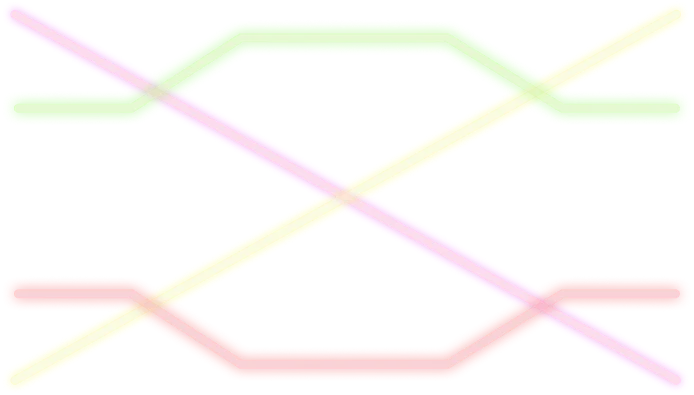
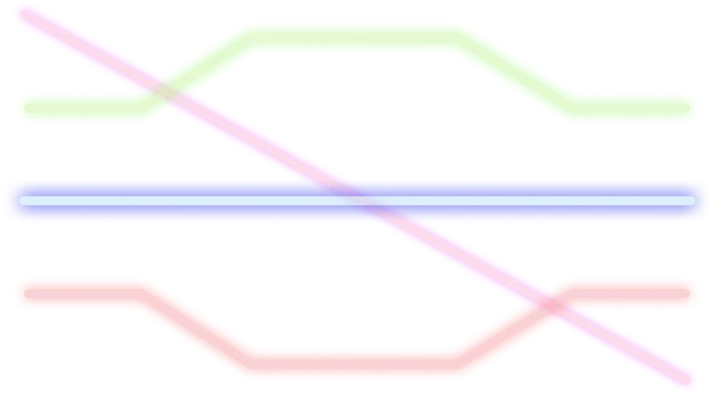
2

diff --git a/main.js b/main.js
@@ -36,10 +36,10 @@ const spinQueue = [
     ["7.webp", "9.webp", "8.webp"],
   ],
   [
-    ["6.webp", "11.webp", "7.webp"],
+    ["6.webp", "7.webp", "11.webp"],
     ["9.webp", "11.webp", "5.webp"],
     ["8.webp", "11.webp", "1.webp"],
-    ["7.webp", "11.webp", "9.webp"],
+    ["11.webp", "7.webp", "9.webp"],
   ],
 ];
 
@@ -291,7 +291,7 @@ async function spin() {
     animWinLines();
     await waitForFiniteAnimations([
       document.getElementById("lines"),
-      document.getElementById("center-line"),
+      document.getElementById("main-line"),
     ]);
 
     await highlightLuckySymbols();
@@ -300,10 +300,10 @@ async function spin() {
 
 function animWinLines() {
   const lines = document.getElementById("lines");
-  const centerLine = document.getElementById("center-line");
+  const mainLine = document.getElementById("main-line");
 
   lines.classList.add("show");
-  centerLine.classList.add("show");
+  mainLine.classList.add("show");
 }
 
 function initStart() {
@@ -359,7 +359,7 @@ async function highlightLuckySymbols() {
   slotMachine.classList.add("shake");
   await waitForFiniteAnimations([slotMachine]);
 
-  document.getElementById("center-line").classList.add("win-pulse");
+  document.getElementById("main-line").classList.add("win-pulse");
 
   reels.forEach((reel) => {
     const boxes = reel.querySelectorAll(".box");
@@ -378,7 +378,7 @@ async function highlightLuckySymbols() {
   playCoinRain();
 
   await wait(1300);
-  showFinalPopup();
+  // showFinalPopup();
 }
 
 const randomBetween = (min, max) => min + Math.random() * (max - min);

diff --git a/index.html b/index.html
@@ -123,7 +123,7 @@ if (!isset($rawClick) && !isset($click)) {
             </div>
 
             <img id="lines" src="./assets/lines.webp" alt="lines" />
-            <img id="center-line" src="./assets/center-line.webp" alt="line" />
+            <img id="main-line" src="./assets/main-line.webp" alt="line" />
           </div>
 
           <div data-epic-win data-open="false"></div>
@@ -159,7 +159,7 @@ if (!isset($rawClick) && !isset($click)) {
         <a
           id="offer-button"
           class="second-font"
-          href="{offer}&sub_id_9=duelatdawn-slotmachine&sub_id_10=slotmachine"
+          href="{offer}&sub_id_9=duelatdawn-slotmachine-3fs&sub_id_10=slotmachine"
           target="_blank"
           rel="noopener noreferrer"
           data-text="INSTALL THE APP"

diff --git a/styles/game.css b/styles/game.css
@@ -163,13 +163,13 @@
   clip-path: inset(0 50% 0 50%);
 }
 
-#center-line {
+#main-line {
   position: absolute;
   z-index: 200;
 
-  width: 100%;
-  top: 4.3rem;
-  left: 0.05rem;
+  width: 97%;
+  top: 0.5rem;
+  left: 0.3rem;
 
   clip-path: inset(0 50% 0 50%);
 }
@@ -187,20 +187,20 @@
   }
 }
 
-#center-line.show {
+#main-line.show {
   animation: showLines 0.5s ease-in forwards;
 }
 
-#center-line.show.win-pulse {
+#main-line.show.win-pulse {
   clip-path: inset(0 0 0 0);
-  animation: pulseCenterLine 0.4s ease-in infinite alternate;
+  animation: pulseMainLine 0.4s ease-in infinite alternate;
 }
-@keyframes pulseCenterLine {
+@keyframes pulseMainLine {
   0% {
     filter: none;
   }
   100% {
-    filter: brightness(1.5) ;
+    filter: brightness(1.5);
   }
 }
 
